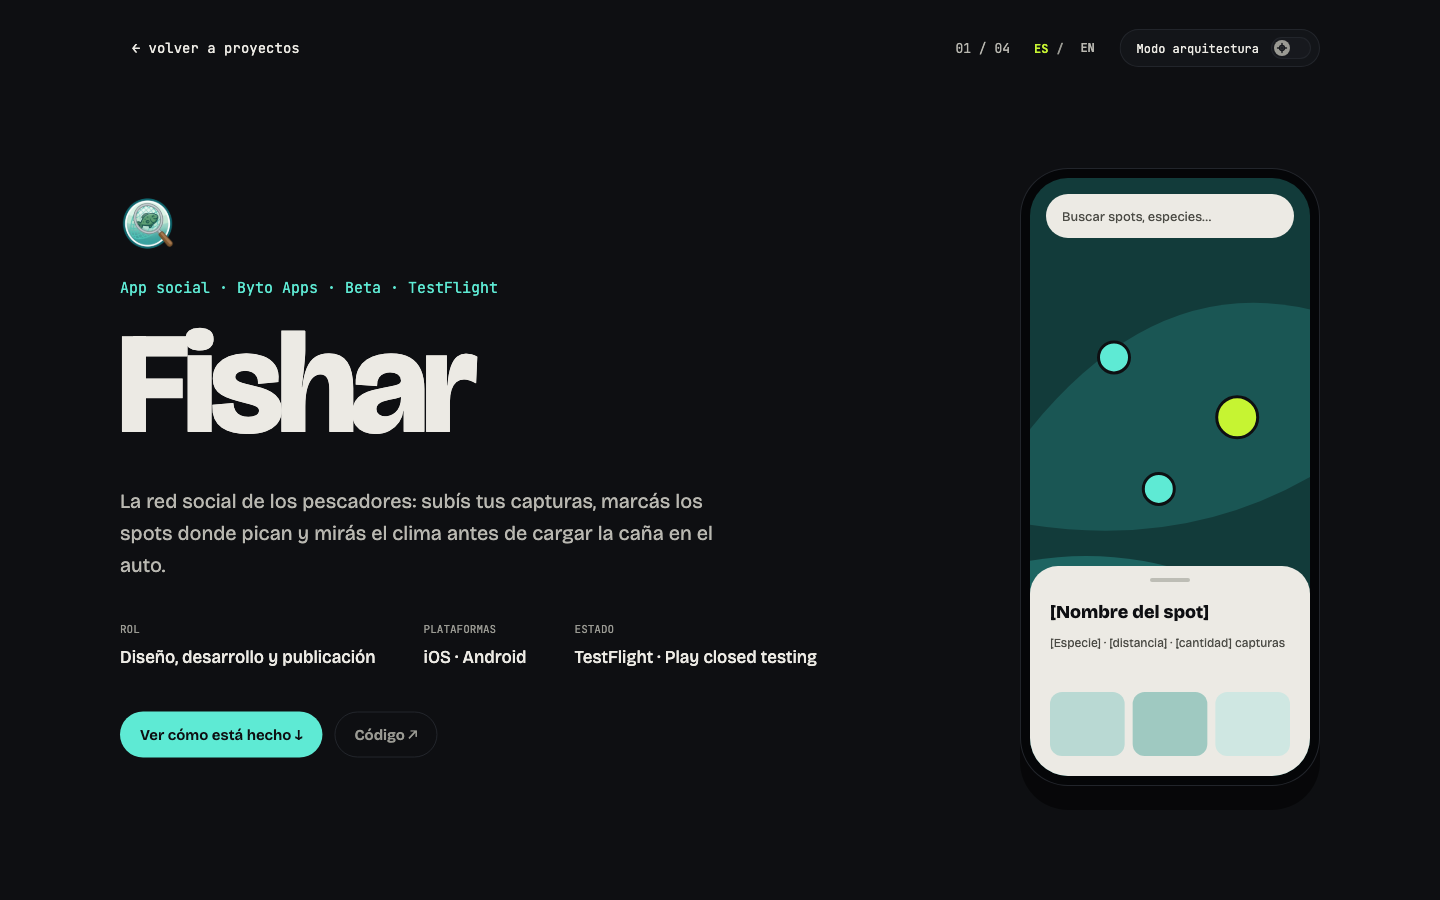
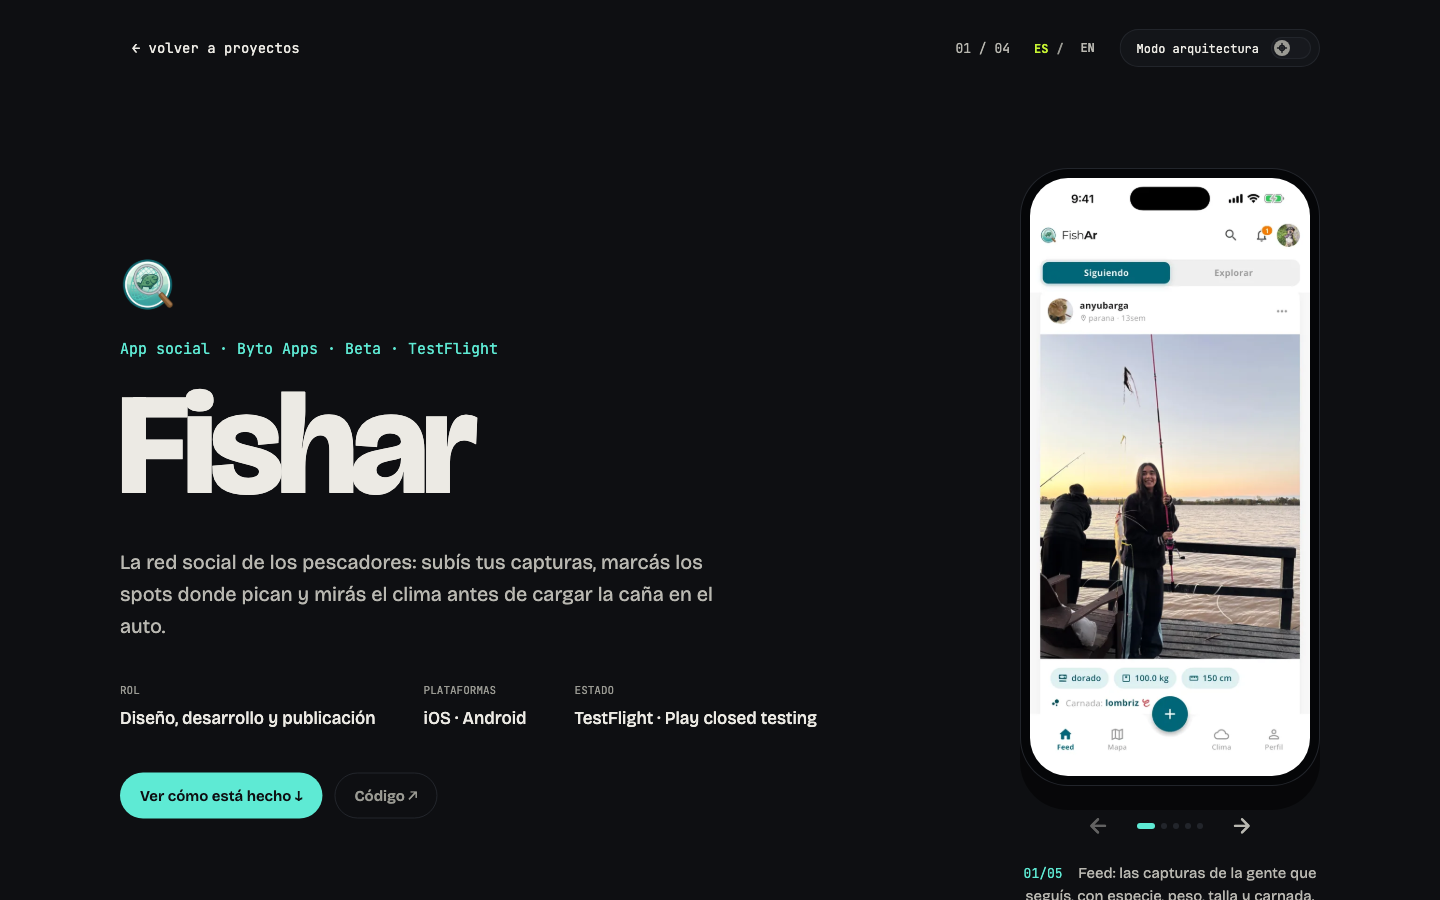
docs: screenshots carousel in the README and refreshed captures

diff --git a/README.md b/README.md
@@ -26,7 +26,7 @@ sobre la UI.
   o si `presentation` importa `data`.
 - **Contenido sin tocar código:** proyectos, experiencia y contacto en
   JSON/Markdown por idioma, validados en CI.
-- **Detalle con demos navegables**, Hero transitions, fondo con fragment shader
+- **Detalle con capturas reales** en un carrusel, Hero transitions, fondo con fragment shader
   y reduced motion respetado en todas las animaciones.
 
 ## Stack
@@ -198,9 +198,12 @@ transición puede animar entre las dos.
   la portada de color se convierte en el teléfono (`project_heroes.dart`). El
   vuelo dibuja un texto escalado y un bloque de color, así nada se re-layoutea
   a mitad de animación. Con reduced motion no hay vuelo ni transición.
-- **Demos navegables** (`projects/presentation/demos/`): maquetas hechas en
-  Flutter de cada app, no su código. Fishar (mapa con spots y sheet), Fundido
-  (chat con el cerdito) y Laburito (flujo de contratación). "Este portfolio"
+- **Capturas reales** (`widgets/detail/media_carousel.dart`): las pantallas
+  de cada app dentro del teléfono, de a una, con flechas, swipe (también con
+  mouse o trackpad), flechas del teclado y el epígrafe anunciado a lectores
+  de pantalla. Las de la versión web (Laburito: web del Buscador y panel de
+  administración) van en una ventana de navegador aparte. El tipo de cada
+  imagen (`phone`, `web`, `figure`) viene del contenido. "Este portfolio"
   muestra la propia home en miniatura dentro del teléfono.
 - **Cómo está hecho:** las tres capas con los nombres reales de clases que
   vienen del contenido, y el snippet con un resaltador de Dart propio
@@ -219,7 +222,8 @@ está construida:
 - **`LayerBadge`** en cada sección: borde en el color de su capa y la cadena
   real de clases, por ejemplo `ProjectsSection → projectsProvider →
   GetProjects → ProjectsRepositoryImpl`. El overlay no cambia el tamaño ni la
-  posición del widget. Las demos del teléfono se marcan como "maqueta".
+  posición del widget. La home en miniatura de "Este portfolio" se marca
+  como "maqueta".
 - **Cards de proyecto:** la portada muestra las clases de cada capa de ese
   proyecto, desde el contenido.
 - **Links a GitHub:** cada clase abre su archivo cuando el proyecto "Este
@@ -244,7 +248,7 @@ los goldens no dependan del GPU.
 - **Loader instantáneo** en [`web/index.html`](web/index.html): HTML y CSS
   puros, visibles antes de que cargue el engine. Se va con el evento
   `flutter-first-frame`, que además deja el tiempo en `window.__firstFrameMs`.
-- **Deferred imports:** la página de detalle (demos, resaltador, home en
+- **Deferred imports:** la página de detalle (carrusel, resaltador, home en
   miniatura) es una librería aparte que se precarga después del primer frame,
   así el click en una card la encuentra lista y la Hero transition funciona.
   - Build JS (fallback para navegadores sin WasmGC): el detalle sale en un

diff --git a/TODO.md b/TODO.md
@@ -43,7 +43,8 @@ Los textos de cards y descripciones salen de PLAN.md y del mockup. Faltan:
 - [ ] Snippets reales para "Cómo está hecho" (`projects/<slug>.snippet` +
       `snippet` en el JSON). Fishar no tiene: el del mockup era ilustrativo.
 - [ ] Cuerpo largo opcional en Markdown (`{es,en}/projects/<slug>.md`).
-- [ ] Capturas y videos cortos de cada app (WebP, tamaños fijos).
+- [x] Capturas de cada app (WebP, en `assets/projects/`).
+- [ ] Videos cortos de cada app (opcional).
 
 ## Contenido real importado (revisar)
 Sacado de `~/Documents/mediomundo-app`, `~/Documents/laburito` y
@@ -58,7 +59,15 @@ Sacado de `~/Documents/mediomundo-app`, `~/Documents/laburito` y
       confirmar que es el perfil público que querés mostrar.
 - [ ] Rive real de Fundi en `fundido_app/assets/rive/pig_run_cycle.riv`:
       confirmar licencia antes de usarlo.
-- [ ] Capturas de pantalla: no hay en ningún repo.
+- [ ] Capturas reales (las pasaste vos; las recorté y convertí a WebP):
+      Fishar sale de las de la tienda; Laburito y Fundido de tus carpetas.
+      Dejé afuera las que mostraban emails, teléfono, DNI, IPs, la dirección
+      del pedido o tarjetas, y en el dashboard del panel difuminé los
+      accesos. Revisá los epígrafes (`mediaCaptions`).
+- [ ] Fundido: el chat sale vacío ("¡Empezá a chatear!"). Una captura con una
+      conversación con Fundi lo mostraría mucho mejor.
+- [ ] Laburito: `links.website` está vacío. Si laburito.web.app es público,
+      sumarlo.
 
 ## Copy a revisar
 - [ ] Traducción al inglés del hero: "Flutter apps with architecture that holds
@@ -67,12 +76,6 @@ Sacado de `~/Documents/mediomundo-app`, `~/Documents/laburito` y
       partir del español).
 - [ ] Textos en inglés de la home en `lib/l10n/app_en.arb` (hero, métricas,
       contacto, footer, tip): traducciones mías del mockup.
-- [ ] Textos de ejemplo de las demos (`demoFundido*`, `demoLaburito*` en los
-      ARB): conversación del cerdito, oficios y nombres ficticios de
-      trabajadores. Los escribí yo para que las demos se entiendan; cambialos
-      por los de las apps reales si querés.
-- [ ] Demo de Fishar: usa los placeholders del mockup (`[Nombre del spot]`,
-      `[Especie] · [distancia] · [cantidad] capturas`).
 - [ ] Métricas de la home: son las del PLAN/mockup ("40+", "~1 s",
       "iOS + Android"). Confirmar que se pueden mostrar así.
 - [ ] Este portfolio: descripciones por capa y las 3 decisiones técnicas
